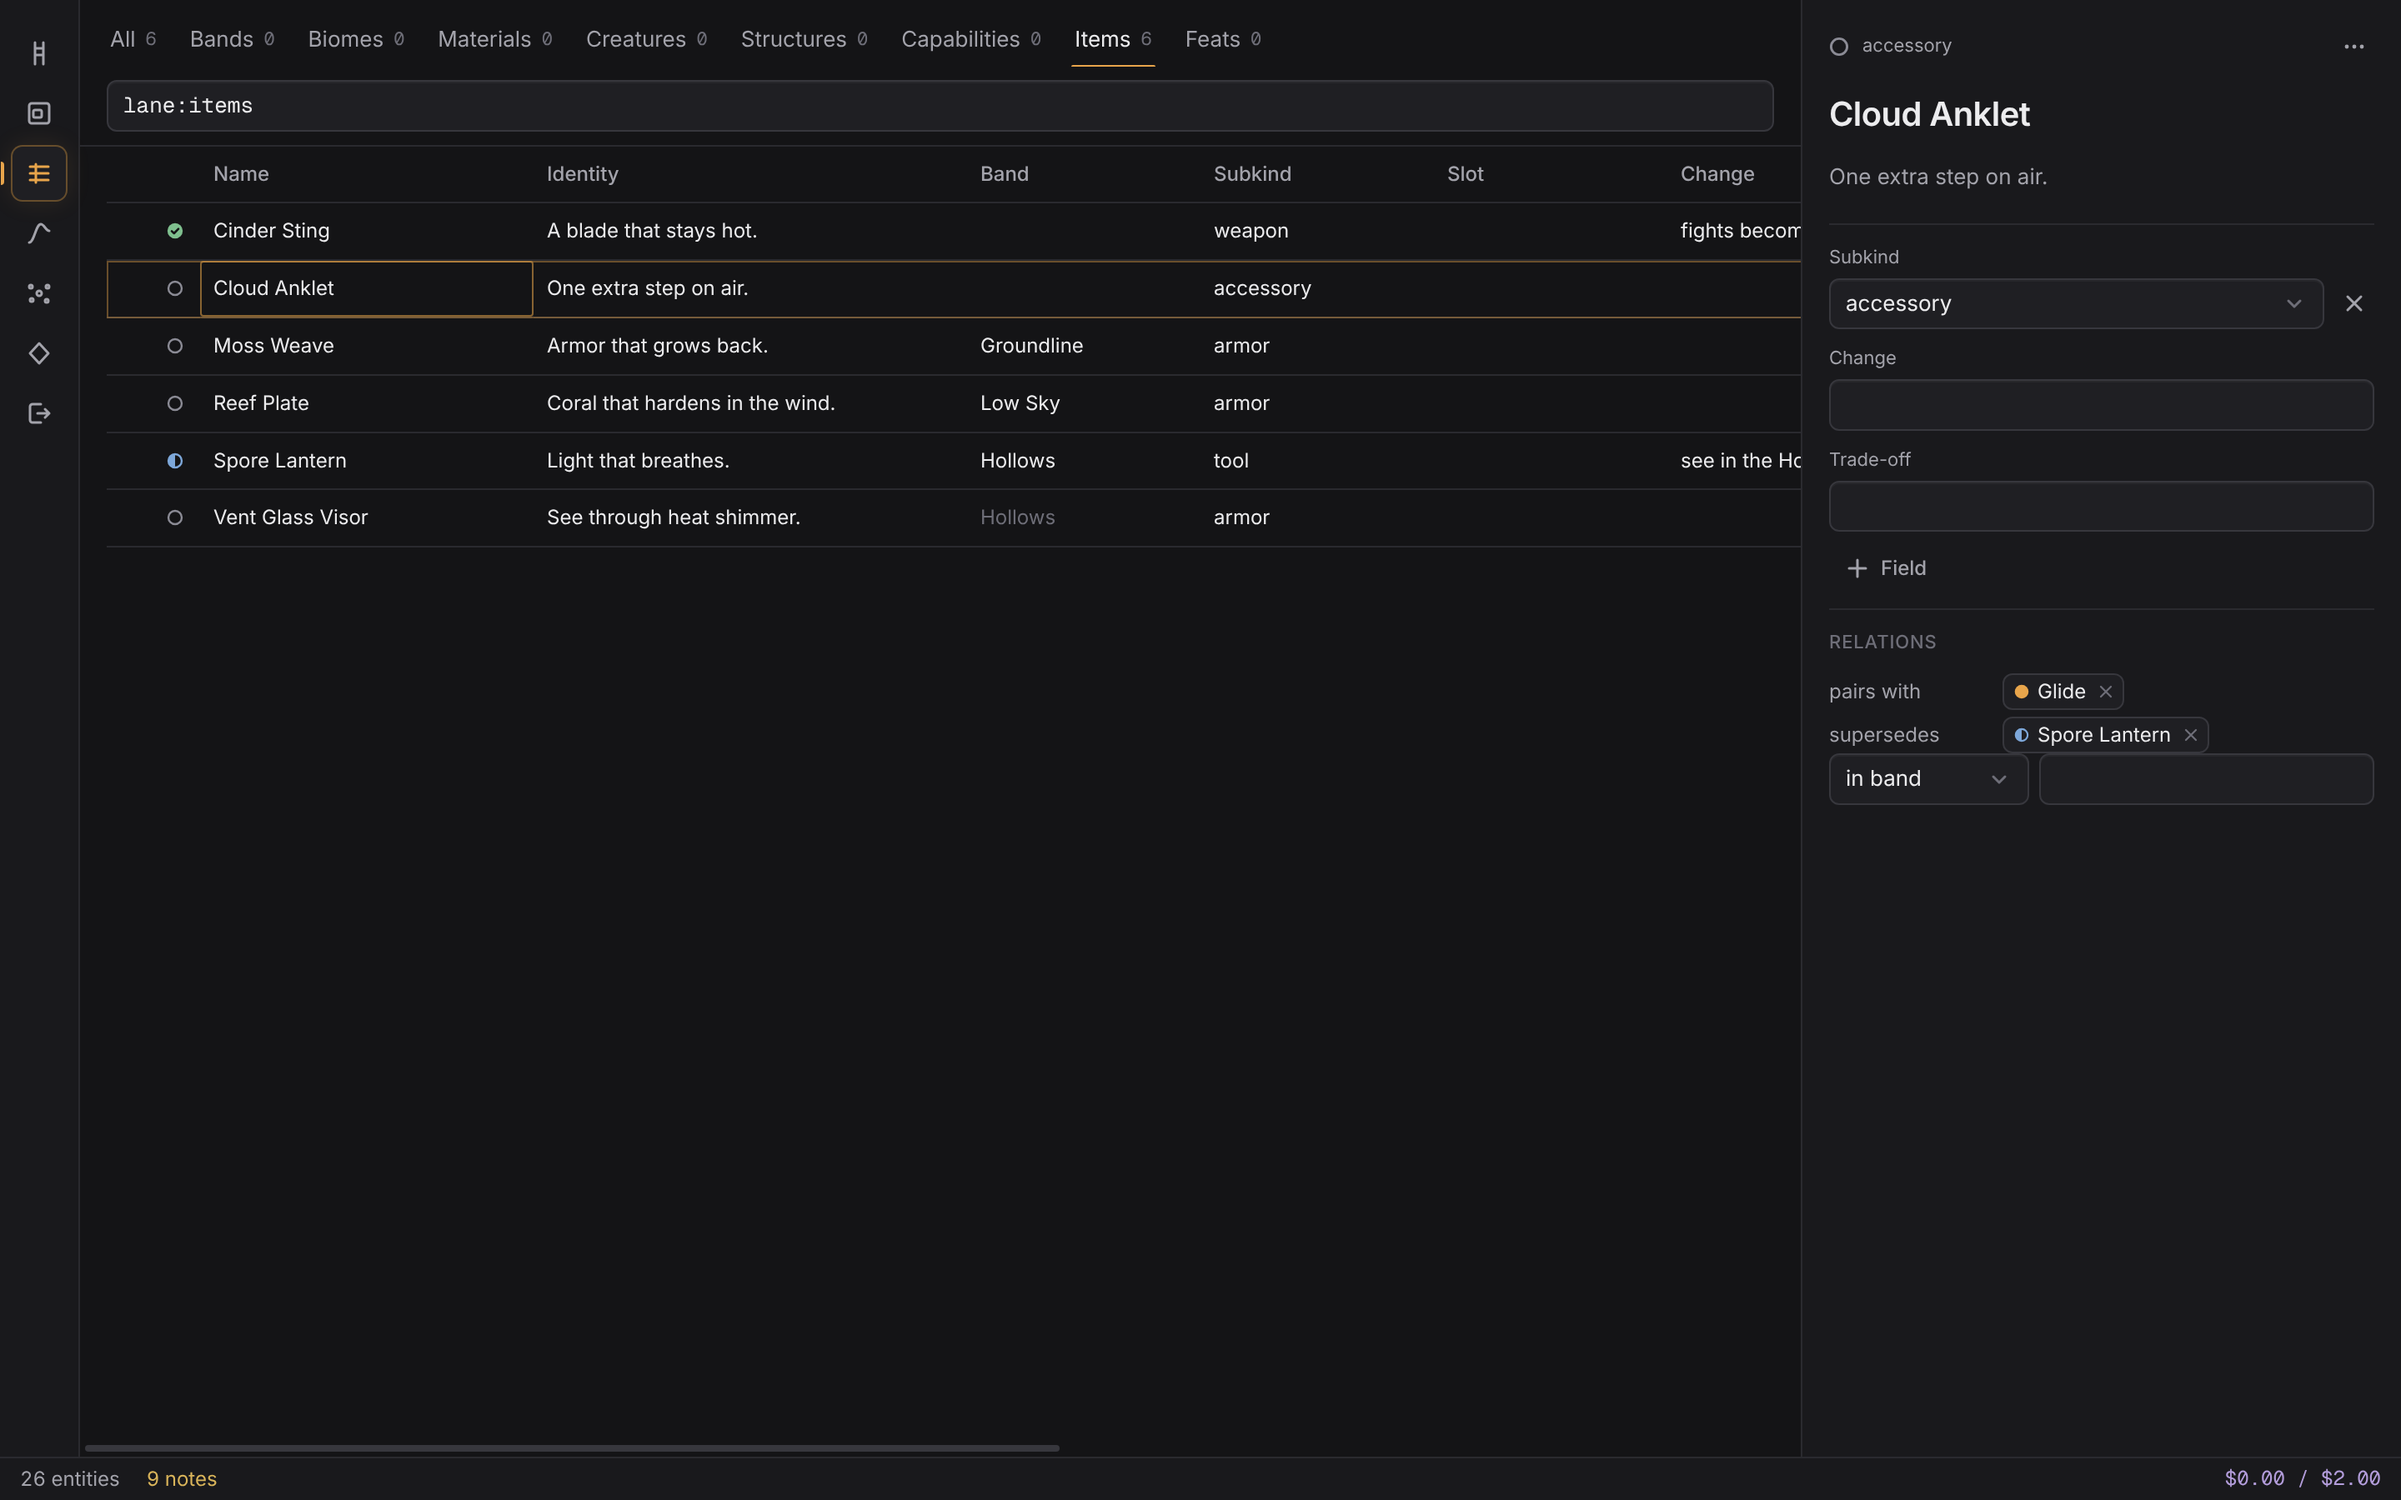
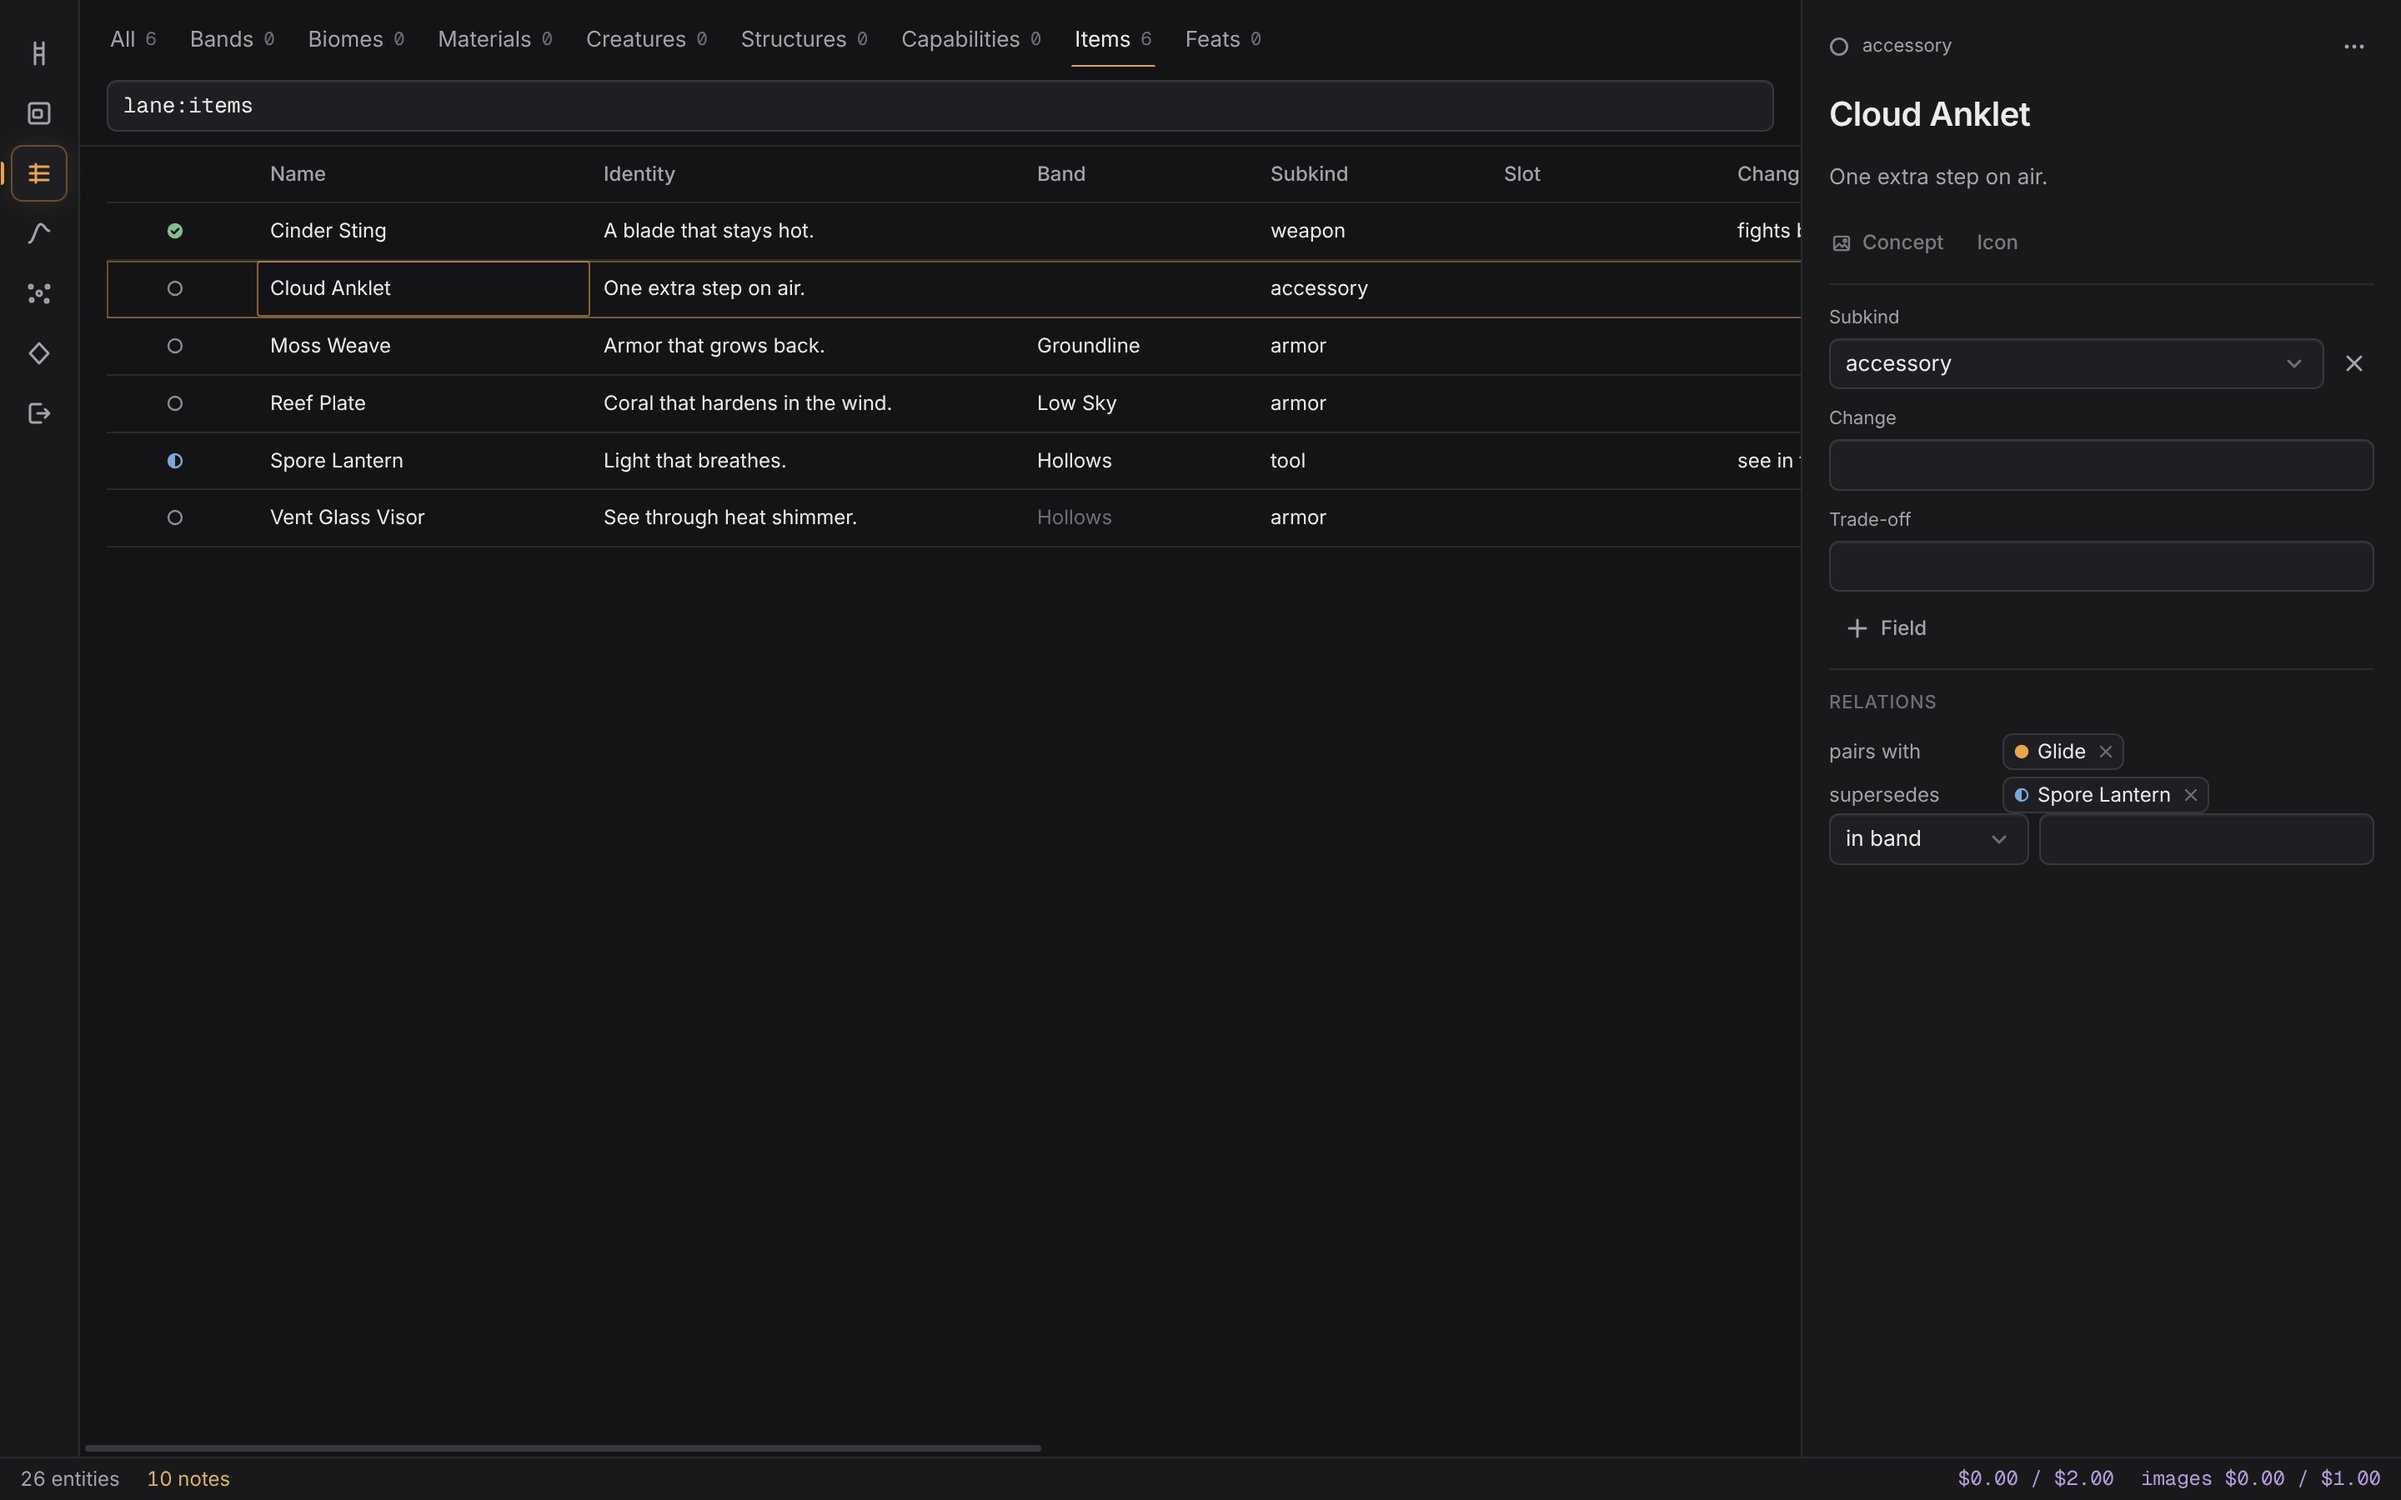
Canonical screens regenerated with images (Climate art, Codex image column, status line)

diff --git a/e2e/images.spec.ts b/e2e/images.spec.ts
@@ -220,7 +220,7 @@ test('codex: the image column, the row menu, and a batch from the bulk bar (skip
   const cells = page().getByTestId('image-cell');
   await expect(cells).toHaveCount(3);
   await expect(page().getByTestId('image-batch-progress')).toContainText('1 of 1 sheet');
-  await expect(page().getByTestId('image-batch-progress')).not.toContainText('$0 ');
+  await expect(page().getByTestId('image-batch-progress')).toContainText(/\$0\.0*[1-9]/);
   await carbon.screenshot('images-sheet-review');
   // Reject the Cloud Anklet's cell, and regenerate it as a smaller sheet.
   const anklet = page().locator('[data-testid="image-cell"][data-entity="cloud-anklet"]');
